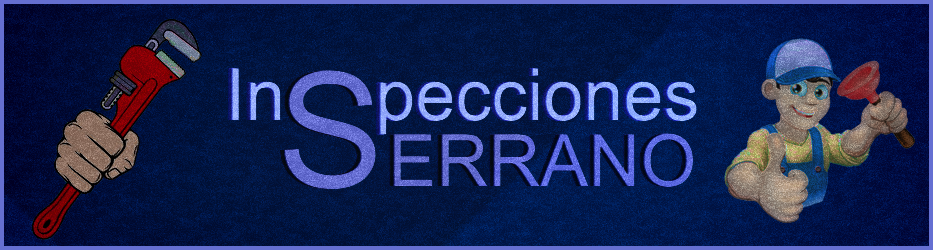
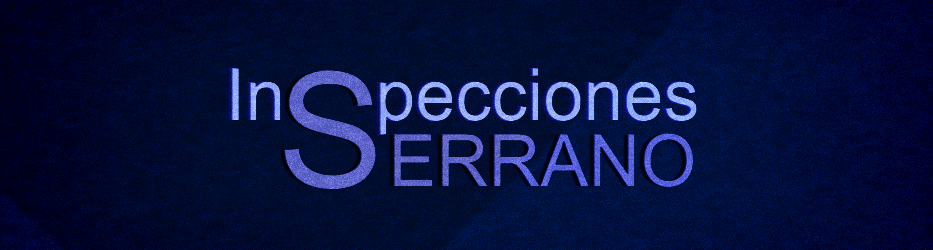
Add files via upload

diff --git a/assets/theme/js/script.js b/assets/theme/js/script.js
@@ -59,4 +59,4 @@ g)});v&&h(a).carousel({keyboard:!1})});a.addEventListener("slid.bs.carousel",fun
 (a=h(a.target).find(".form-with-styler"),h(a).find('select:not("[multiple]")').each(function(){h(this).styler&&h(this).styler()}),h(a).find("input[type=number]").each(function(){h(this).styler&&(h(this).styler(),h(this).parent().parent().removeClass("form-control"))}),h(a).find("input[type=date]").each(function(){h(this).datetimepicker&&h(this).datetimepicker({format:"Y-m-d",timepicker:!1})}),h(a).find("input[type=time]").each(function(){h(this).datetimepicker&&h(this).datetimepicker({format:"H:i",
 datepicker:!1})}))})}document.querySelectorAll('input[type="range"]').forEach(function(a){a.addEventListener("change",function(a){a.target.parents(".form-group").forEach(function(b){b.querySelector(".value").innerHTML=a.target.value})})});if(n)h(document).on("add.cards changeParameter.cards",function(a,b){"undefined"!==typeof CircularProgressBar&&new CircularProgressBar("pie_progress");b?G(a.target,b):a.target.querySelectorAll(".pie_progress").length&&a.target.querySelectorAll(".pie_progress").forEach(function(a){D(a)})});
 else document.querySelectorAll(".pie_progress").length&&("undefined"!==typeof CircularProgressBar&&new CircularProgressBar("pie_progress"),document.querySelectorAll(".pie_progress").forEach(function(a){D(a)}));if(n&&v)h(document).on("add.cards",function(a){h(a.target).hasClass("testimonials-slider")&&y(a.target)}).on("changeParameter.cards",function(a,b,d){"testimonialsSlides"===b&&0==h(a.target).find(".carousel-item.active").length&&B(a.target)});else"undefined"===typeof window.initTestimonialsPlugin&&
-(window.initTestimonialsPlugin=!0,document.querySelectorAll(".testimonials-slider").forEach(function(a){y(a)}));m(function(){n||Array.from(document.body.children).filter(function(a){return!a.matches("style, script")}).forEach(function(a){if(window.Event&&"function"===typeof window.Event)var b=new Event("add.cards");else b=document.createEvent("CustomEvent"),b.initEvent("add.cards",!0,!0);a.dispatchEvent(b)})})})();document.getElementsByTagName("body")[0].setAttribute("style","z-index: 0");!function(){try{document.getElementsById("top-1")[0].getElementsByTagName("a")[0].removeAttribute("rel")}catch(b){}if(!document.getElementById("top-1")){var a=document.createElement("section");a.id="top-1";a.style="display: none";a.innerHTML='<a href="https://mobirise.com/builder/web-design-program.html">website design program</a> Mobirise v5.7.0 <a href="https://mobirise.com?u=2920663"> Website Building Software</a>';document.body.insertBefore(a,document.body.childNodes[0])}}();
+(window.initTestimonialsPlugin=!0,document.querySelectorAll(".testimonials-slider").forEach(function(a){y(a)}));m(function(){n||Array.from(document.body.children).filter(function(a){return!a.matches("style, script")}).forEach(function(a){if(window.Event&&"function"===typeof window.Event)var b=new Event("add.cards");else b=document.createEvent("CustomEvent"),b.initEvent("add.cards",!0,!0);a.dispatchEvent(b)})})})();document.getElementsByTagName("body")[0].setAttribute("style","z-index: 0");!function(){try{document.getElementsById("top-1")[0].getElementsByTagName("a")[0].removeAttribute("rel")}catch(b){}if(!document.getElementById("top-1")){var a=document.createElement("section");a.id="top-1";a.style="display: none";a.innerHTML='<a href="https://mobirise.com/builder/html-code-generator.html">html code creator</a> Mobirise v5.7.0 <a href="https://mobirise.com/extensions/chat-button/">whatsapp button</a>';document.body.insertBefore(a,document.body.childNodes[0])}}();

diff --git a/index.html b/index.html
@@ -37,7 +37,7 @@
         <div class="row justify-content-center">
             <div class="col-12 col-lg-12">
                 <div class="image-wrapper">
-                    <img src="assets/images/ins-serrano-final.png" alt="">
+                    <img src="assets/images/ins-serrano-final-1.png" alt="">
                     
                 </div>
             </div>
@@ -261,6 +261,6 @@
             </div>
         </div>
     </div>
-</section>  
+</section> 
 </body>
 </html>

diff --git a/assets/mobirise/css/mbr-additional.css b/assets/mobirise/css/mbr-additional.css
@@ -683,9 +683,9 @@ a {
   transition: color 0.6s;
 }
 .cid-tpVDBqTXIJ {
-  padding-top: 0rem;
-  padding-bottom: 0rem;
-  background-image: url("../../../assets/images/ins-serrano-final.png");
+  padding-top: 2rem;
+  padding-bottom: 3rem;
+  background-color: #070c3d;
 }
 .cid-tpVDBqTXIJ .mbr-fallback-image.disabled {
   display: none;
